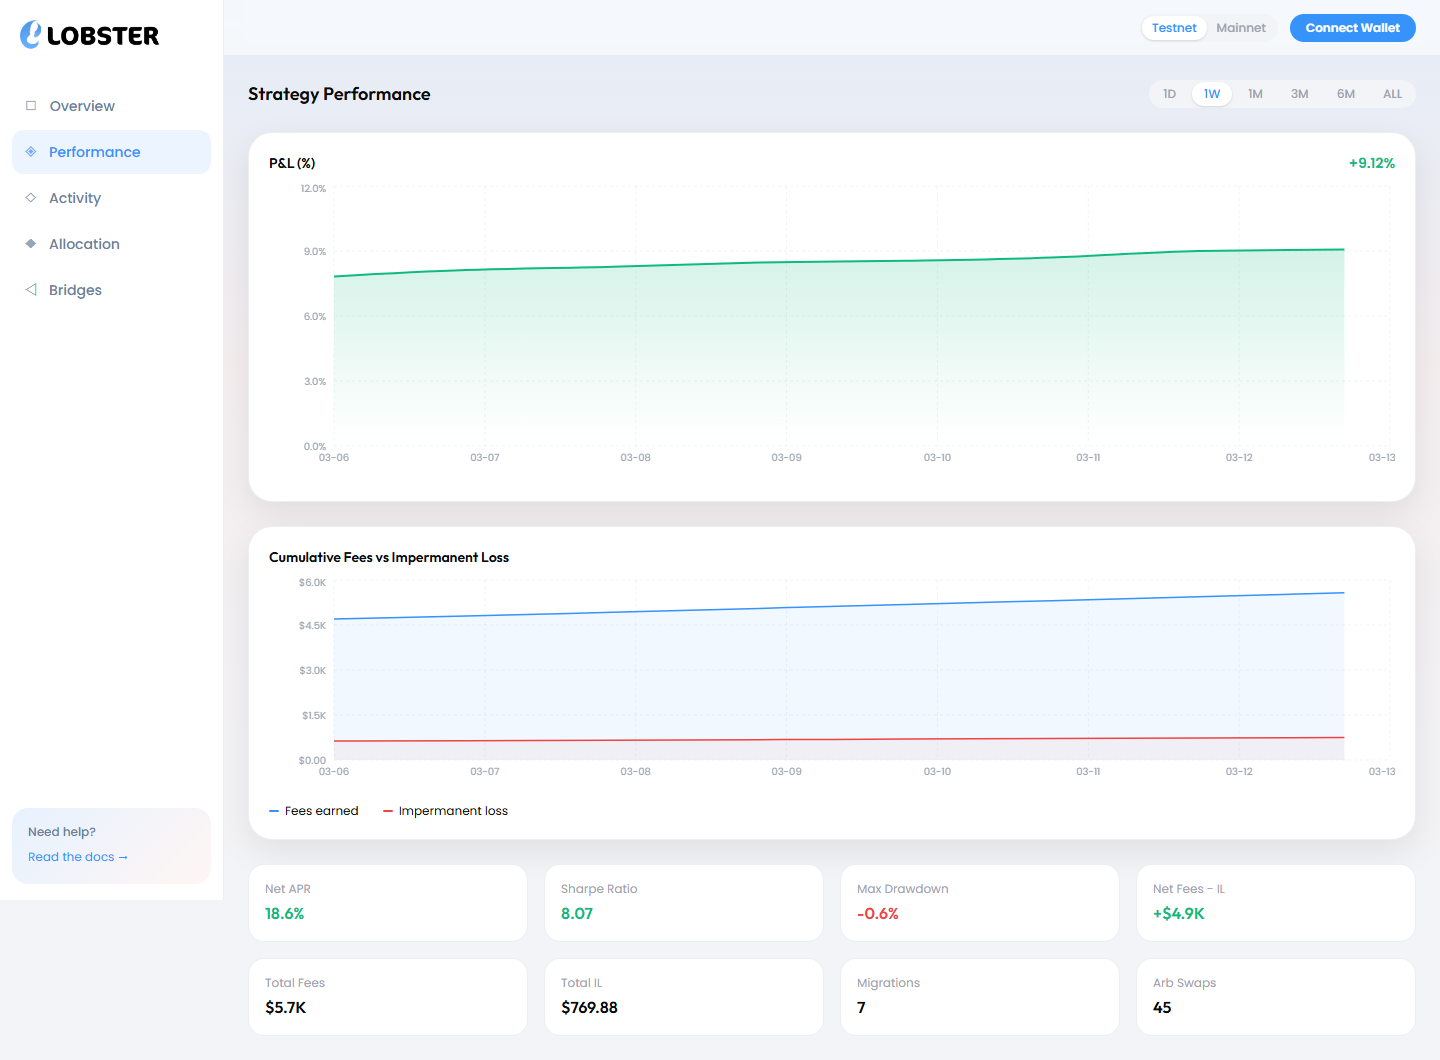
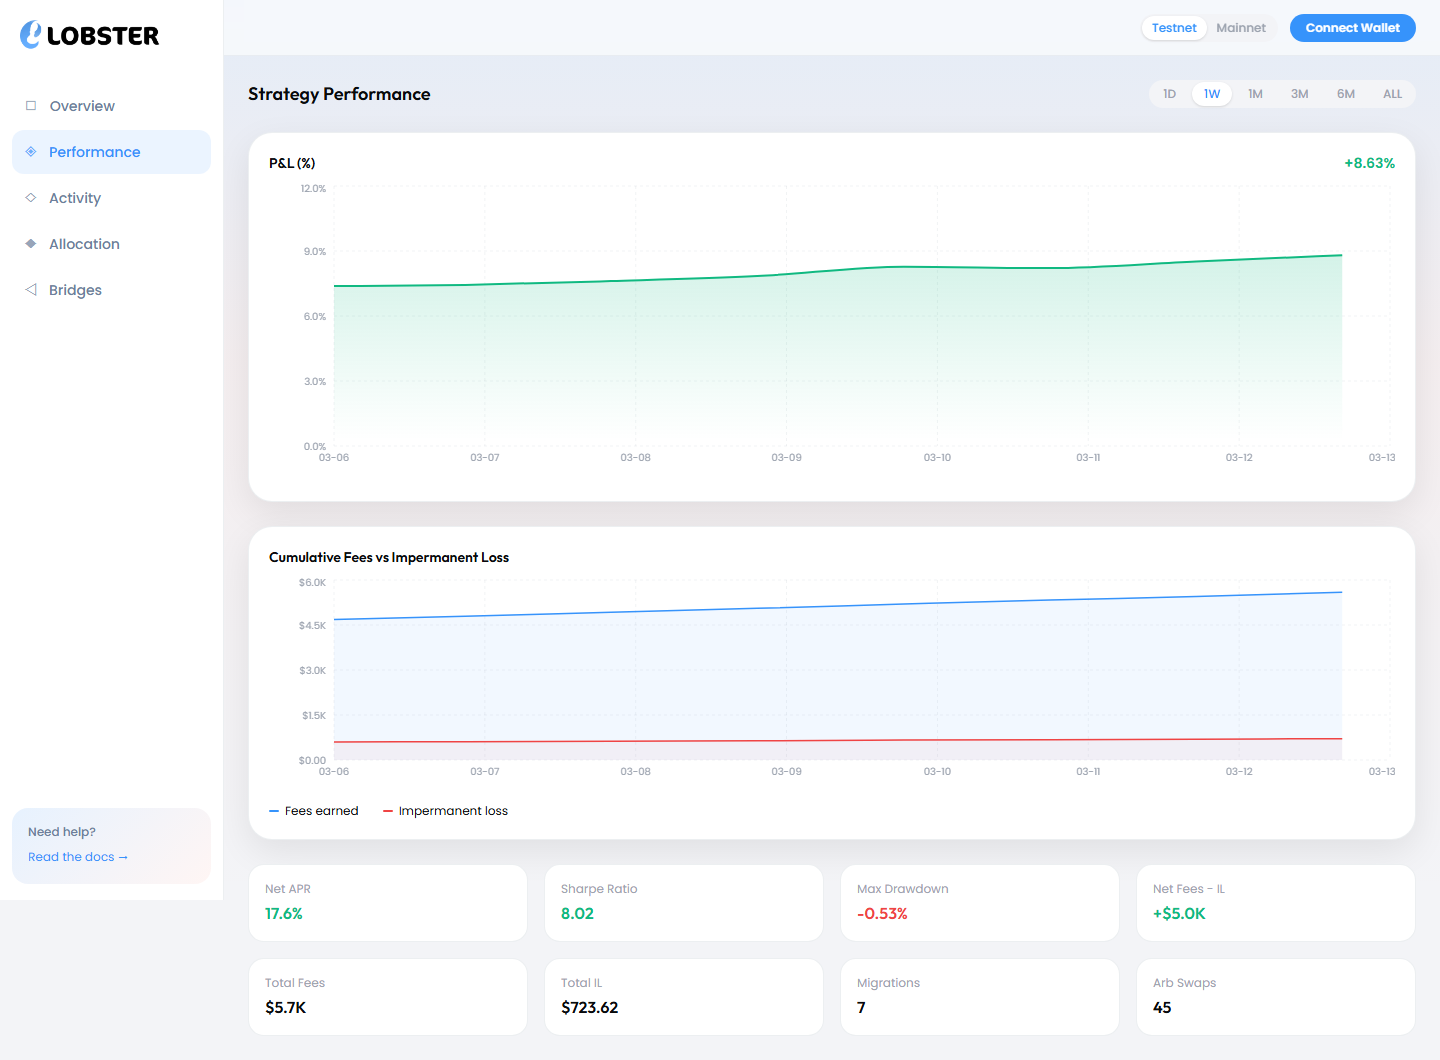
fix: hooks violation, deterministic RNG, activity sort, tooltip values, 404 route, misc polish

diff --git a/src/data/mock.ts b/src/data/mock.ts
@@ -99,16 +99,10 @@ const POOLS = [
   { name: 'XLM/USDC 0.1%', protocol: 'aquarius' as Protocol },
 ]
 
-const _pickRand = seededRandom(123)
-function pickPool(exclude?: string): typeof POOLS[0] {
-  const available = exclude ? POOLS.filter(p => p.name + p.protocol !== exclude) : POOLS
-  return available[Math.floor(_pickRand() * available.length)]
-}
-
-const _snapRand = seededRandom(777)
-
 // generate daily snapshots
 export function generateSnapshots(): DailySnapshot[] {
+  const rand = seededRandom(777)
+  const pickRand = seededRandom(123)
   const days = 180
   const startDate = new Date('2025-09-15')
   const depositValue = 100000
@@ -125,21 +119,22 @@ export function generateSnapshots(): DailySnapshot[] {
 
     // simulate pool migrations every ~25 days
     if (i > 0 && i % 25 === 0) {
-      currentPool = pickPool(currentPool.name + currentPool.protocol)
+      const available = POOLS.filter(p => p.name + p.protocol !== currentPool.name + currentPool.protocol)
+      currentPool = available[Math.floor(pickRand() * available.length)]
     }
 
-    const dailyFee = value * 0.0003 * (0.7 + _snapRand() * 0.6) // ~0.03% daily fees
+    const dailyFee = value * 0.0003 * (0.7 + rand() * 0.6) // ~0.03% daily fees
     cumulativeFees += dailyFee
-    const dailyIL = value * 0.00008 * _snapRand()
+    const dailyIL = value * 0.00008 * rand()
     cumulativeIL += dailyIL
 
     // token ratio oscillates around 50/50 with drift
-    const baseRatio = 50 + Math.sin(i / 20) * 5 + (_snapRand() - 0.5) * 3
+    const baseRatio = 50 + Math.sin(i / 20) * 5 + (rand() - 0.5) * 3
     const ratio = Math.max(35, Math.min(65, baseRatio))
 
     const token1Value = value * (ratio / 100) // USDC portion
     const token0Value = value - token1Value // XLM portion
-    const xlmPrice = 0.38 + Math.sin(i / 30) * 0.04 + (_snapRand() - 0.5) * 0.02
+    const xlmPrice = 0.38 + Math.sin(i / 30) * 0.04 + (rand() - 0.5) * 0.02
 
     return {
       date: date.toISOString().split('T')[0],
@@ -160,6 +155,7 @@ export function generateSnapshots(): DailySnapshot[] {
 
 // generate activity events
 export function generateActivity(): ActivityEvent[] {
+  const rand = seededRandom(888)
   const events: ActivityEvent[] = []
   const startDate = new Date('2025-09-15')
 
@@ -204,17 +200,17 @@ export function generateActivity(): ActivityEvent[] {
       toPool: `XLM/USDC 0.3%`,
       fromProtocol: fromP as Protocol,
       toProtocol: toP as Protocol,
-      txHash: `${_snapRand().toString(36).slice(2, 10)}...${_snapRand().toString(36).slice(2, 6)}`,
+      txHash: `${rand().toString(36).slice(2, 10)}...${rand().toString(36).slice(2, 6)}`,
       reason,
     })
   })
 
   // arbitrage swaps (roughly every 3-5 days)
-  for (let d = 5; d < 180; d += 3 + Math.floor(_snapRand() * 4)) {
+  for (let d = 5; d < 180; d += 3 + Math.floor(rand() * 4)) {
     const date = new Date(startDate)
     date.setDate(date.getDate() + d)
-    const isXlmToUsdc = _snapRand() > 0.5
-    const amount = 500 + Math.floor(_snapRand() * 2500)
+    const isXlmToUsdc = rand() > 0.5
+    const amount = 500 + Math.floor(rand() * 2500)
 
     events.push({
       id: `swap-${d}`,
@@ -222,13 +218,14 @@ export function generateActivity(): ActivityEvent[] {
       type: 'swap',
       amount,
       token: isXlmToUsdc ? 'XLM' : 'USDC',
-      txHash: `${_snapRand().toString(36).slice(2, 10)}...${_snapRand().toString(36).slice(2, 6)}`,
+      txHash: `${rand().toString(36).slice(2, 10)}...${rand().toString(36).slice(2, 6)}`,
       reason: isXlmToUsdc ? 'Delta rebalance: XLM overweight' : 'Delta rebalance: USDC overweight',
     })
   }
 
   // sort by date
-  events.sort((a, b) => a.date.localeCompare(b.date))
+  // newest first
+  events.sort((a, b) => b.date.localeCompare(a.date))
   return events
 }
 

diff --git a/src/components/TopBar.tsx b/src/components/TopBar.tsx
@@ -1,6 +1,7 @@
 import { useWallet } from '../contexts/WalletContext'
 import { useNetwork } from '../contexts/NetworkContext'
 import { shortenAddress, cn } from '../utils/format'
+import lobsterIcon from '../assets/lobster-icon.png'
 
 export default function TopBar() {
   const { address, walletName, connecting, connect, disconnect } = useWallet()
@@ -9,7 +10,10 @@ export default function TopBar() {
   return (
     <div className="h-14 flex items-center justify-between px-6 bg-bg-card/60 backdrop-blur-sm" style={{ borderBottom: '1px solid rgba(13, 45, 76, 0.06)' }}>
       {/* mobile logo (shown only on small screens) */}
-      <div className="lg:hidden text-sm font-semibold text-text">🦞 Lobster</div>
+      <div className="lg:hidden flex items-center gap-1.5">
+        <img src={lobsterIcon} alt="Lobster" className="h-6 w-6" />
+        <span className="text-sm font-semibold text-text">Lobster</span>
+      </div>
       <div className="hidden lg:block" />
 
       <div className="flex items-center gap-3">

diff --git a/src/pages/Allocation.tsx b/src/pages/Allocation.tsx
@@ -46,7 +46,7 @@ export default function Allocation() {
             <YAxis tick={{ fontSize: 10, fill: '#9ca3af' }} axisLine={false} tickLine={false} tickFormatter={(v: number) => `${(v * 100).toFixed(0)}%`} />
             <Tooltip
               contentStyle={{ background: '#fff', border: '1px solid rgba(13,45,76,0.1)', borderRadius: 12, fontSize: 12 }}
-              formatter={(val: any) => [`${Number(val).toFixed(1)}%`]}
+              formatter={(val: any) => [`${(Number(val) * 100).toFixed(1)}%`]}
             />
             <Area type="monotone" dataKey={STRATEGY.token0Symbol} stackId="1" stroke="#3693fb" fill="#3693fb" fillOpacity={0.6} />
             <Area type="monotone" dataKey={STRATEGY.token1Symbol} stackId="1" stroke="#ff8770" fill="#ff8770" fillOpacity={0.5} />

diff --git a/src/App.tsx b/src/App.tsx
@@ -1,4 +1,4 @@
-import { Routes, Route } from 'react-router-dom'
+import { Routes, Route, Navigate } from 'react-router-dom'
 import Sidebar from './components/Sidebar'
 import TopBar from './components/TopBar'
 import Overview from './pages/Overview'
@@ -20,6 +20,7 @@ export default function App() {
             <Route path="/activity" element={<Activity />} />
             <Route path="/allocation" element={<Allocation />} />
             <Route path="/bridges" element={<Bridges />} />
+            <Route path="*" element={<Navigate to="/" replace />} />
           </Routes>
         </main>
       </div>

diff --git a/src/pages/Bridges.tsx b/src/pages/Bridges.tsx
@@ -87,7 +87,7 @@ export default function Bridges() {
                 </div>
               </div>
               <div className="text-right">
-                <p className="text-sm font-medium text-text">{formatUSD(event.amount)} {event.token}</p>
+                <p className="text-sm font-medium text-text">{event.amount.toLocaleString()} {event.token}</p>
                 <div className="flex items-center gap-2 justify-end">
                   <span className="text-xs text-text-muted">{event.date}</span>
                   <span className={cn(

diff --git a/src/pages/Overview.tsx b/src/pages/Overview.tsx
@@ -11,6 +11,7 @@ export default function Overview() {
   const snapshots = useMemo(() => generateSnapshots(), [])
   const kpis = useMemo(() => computeKPIs(snapshots), [snapshots])
   const last = snapshots[snapshots.length - 1]
+  const [depositOpen, setDepositOpen] = useState(false)
 
   if (!address) {
     return (
@@ -30,8 +31,6 @@ export default function Overview() {
       </div>
     )
   }
-
-  const [depositOpen, setDepositOpen] = useState(false)
 
   if (!kpis) return null
 

diff --git a/src/pages/Activity.tsx b/src/pages/Activity.tsx
@@ -22,6 +22,7 @@ const TYPE_COLORS: Record<ActivityType, string> = {
 
 type Filter = 'all' | ActivityType
 
+// TODO: pagination for long activity feeds
 export default function Activity() {
   const events = useMemo(() => generateActivity(), [])
   const [filter, setFilter] = useState<Filter>('all')

diff --git a/src/index.css b/src/index.css
@@ -17,6 +17,7 @@
   --color-error: #ff6370;
   --color-green: #10b981;
   --color-red: #ef4444;
+  --color-yellow: #eab308;
   --color-soroswap: #3b82f6;
   --color-phoenix: #f97316;
   --color-aquarius: #9333ea;
